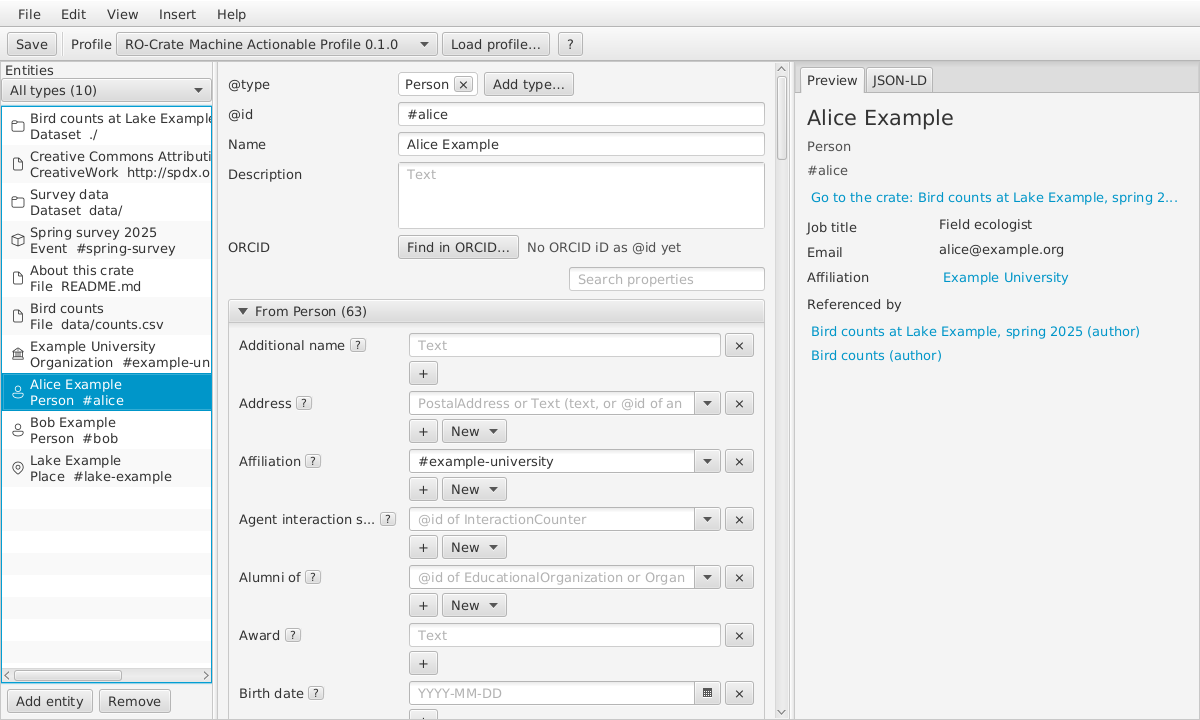
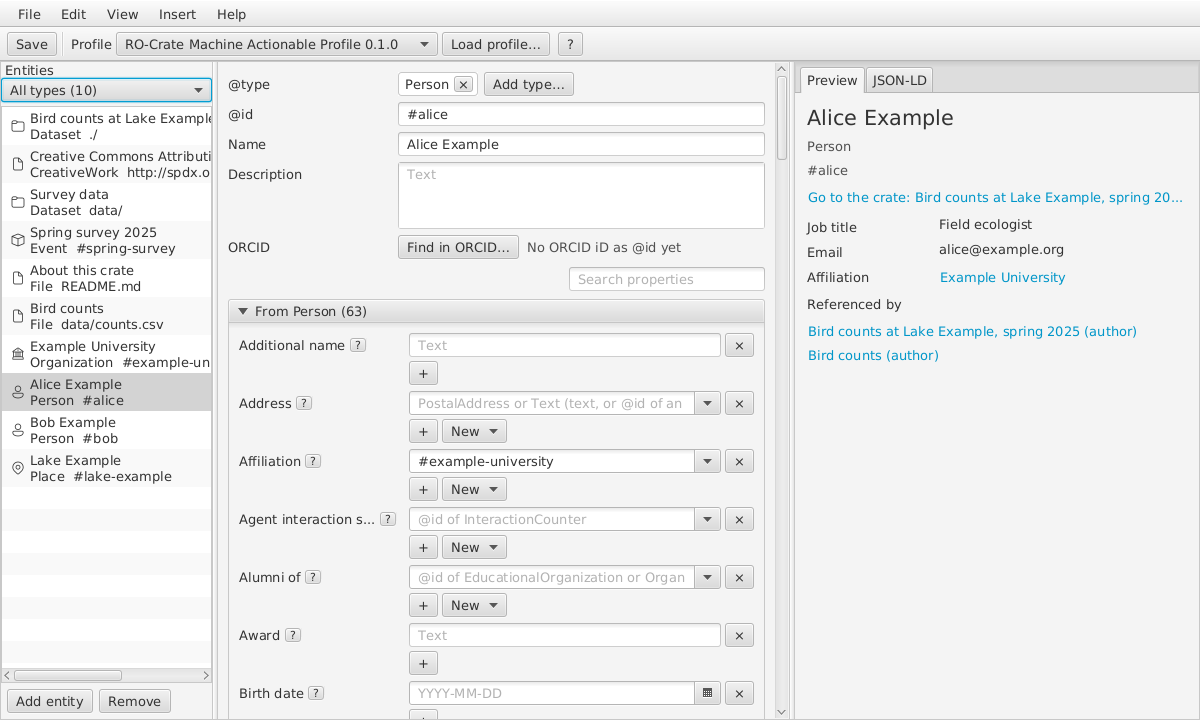
Lookup links name what they open: SPDX entry CC-BY-4.0, PRONOM definition fmt/40; the ORCID iD and ROR id are the links
Hyperlinks start where labels do, without Modena's 4px side padding.

diff --git a/ui/src/main/resources/no/s11/wpsld/ui/wpsld.css b/ui/src/main/resources/no/s11/wpsld/ui/wpsld.css
@@ -74,6 +74,11 @@
     -fx-fill: -fx-text-inner-color;
 }
 
+/* Links start where labels do, not 4px in as in Modena */
+.hyperlink {
+    -fx-padding: 0.166667em 0 0.166667em 0;
+}
+
 .help-dialog .help-content .hyperlink {
     -fx-padding: 0;
 }

diff --git a/ui/src/main/java/no/s11/wpsld/ui/OrganizationFinder.java b/ui/src/main/java/no/s11/wpsld/ui/OrganizationFinder.java
@@ -25,6 +25,7 @@ import java.util.stream.Stream;
 
 import javafx.concurrent.Task;
 import javafx.geometry.Insets;
+import javafx.geometry.Pos;
 import javafx.scene.Node;
 import javafx.scene.control.Button;
 import javafx.scene.control.ButtonType;
@@ -193,7 +194,11 @@ class OrganizationFinder extends Dialog<OrganizationFinder.Chosen> {
 		Label title = new Label(organization.name());
 		title.setWrapText(true);
 		title.setStyle("-fx-font-weight: bold;");
-		details.getChildren().addAll(title, new Label("ROR: " + organization.id()));
+		Hyperlink record = new Hyperlink(organization.id());
+		record.setOnAction(e -> browse.accept(organization.iri()));
+		HBox ror = new HBox(4, new Label("ROR:"), record);
+		ror.setAlignment(Pos.BASELINE_LEFT);
+		details.getChildren().addAll(title, ror);
 		if (!organization.where().isEmpty()) {
 			details.getChildren().add(new Label("In: " + organization.where()));
 		}
@@ -218,8 +223,5 @@ class OrganizationFinder extends Dialog<OrganizationFinder.Chosen> {
 			site.setOnAction(e -> browse.accept(website));
 			details.getChildren().add(site);
 		});
-		Hyperlink record = new Hyperlink("Its ROR record");
-		record.setOnAction(e -> browse.accept(organization.iri()));
-		details.getChildren().add(record);
 	}
 }

diff --git a/ui/src/main/java/no/s11/wpsld/ui/PersonFinder.java b/ui/src/main/java/no/s11/wpsld/ui/PersonFinder.java
@@ -23,6 +23,7 @@ import java.util.function.Consumer;
 
 import javafx.concurrent.Task;
 import javafx.geometry.Insets;
+import javafx.geometry.Pos;
 import javafx.scene.Node;
 import javafx.scene.control.Button;
 import javafx.scene.control.ButtonType;
@@ -174,7 +175,11 @@ class PersonFinder extends Dialog<Person> {
 		Label name = new Label(person.name());
 		name.setWrapText(true);
 		name.setStyle("-fx-font-weight: bold;");
-		details.getChildren().addAll(name, new Label("ORCID iD: " + person.id()));
+		Hyperlink record = new Hyperlink(person.id());
+		record.setOnAction(e -> browse.accept(person.iri()));
+		HBox orcid = new HBox(4, new Label("ORCID iD:"), record);
+		orcid.setAlignment(Pos.BASELINE_LEFT);
+		details.getChildren().addAll(name, orcid);
 		if (!person.otherNames().isEmpty()) {
 			Label others = new Label("Also known as: " + String.join("; ", person.otherNames()));
 			others.setWrapText(true);
@@ -185,8 +190,5 @@ class PersonFinder extends Dialog<Person> {
 			institutions.setWrapText(true);
 			details.getChildren().add(institutions);
 		}
-		Hyperlink record = new Hyperlink("Their ORCID record");
-		record.setOnAction(e -> browse.accept(person.iri()));
-		details.getChildren().add(record);
 	}
 }

diff --git a/ui/src/main/java/no/s11/wpsld/ui/LicenseFinder.java b/ui/src/main/java/no/s11/wpsld/ui/LicenseFinder.java
@@ -167,7 +167,7 @@ class LicenseFinder extends Dialog<License> {
 			note.getStyleClass().add("dim-text");
 			details.getChildren().add(note);
 		}
-		details.getChildren().add(link("Its page on the SPDX License List", license.page()));
+		details.getChildren().add(link("SPDX entry " + license.id(), license.page()));
 		license.seeAlso().forEach(address -> details.getChildren().add(link(address, address)));
 	}
 

diff --git a/ui/src/main/java/no/s11/wpsld/ui/FormatFinder.java b/ui/src/main/java/no/s11/wpsld/ui/FormatFinder.java
@@ -168,7 +168,7 @@ class FormatFinder extends Dialog<Format> {
 			label.setWrapText(true);
 			details.getChildren().add(label);
 		}
-		Hyperlink page = new Hyperlink("Its page in PRONOM");
+		Hyperlink page = new Hyperlink("PRONOM definition " + format.puid());
 		page.setOnAction(e -> browse.accept(format.page()));
 		details.getChildren().add(page);
 	}

diff --git a/ui/src/main/resources/no/s11/wpsld/ui/help/properties.md b/ui/src/main/resources/no/s11/wpsld/ui/help/properties.md
@@ -37,7 +37,7 @@ RO-Crate recommends identifying people by their
 person) from ORCID, choose **New** beside **Author**, then **Person from
 ORCID...**. Type their name, or their ORCID iD, and choose **Search**: the
 people found are listed with their ORCID iD and institutions, and the one
-selected with their other names and a link to their ORCID record. Several
+selected with their other names, its ORCID iD a link to their record. Several
 people may have the same name, so check before choosing. Choose one and
 **OK**: wpsld adds them as a Person with their ORCID iD as `@id`, their
 name, and their given and family names. If the crate already has them,
@@ -148,7 +148,7 @@ SPDX...**. Type part of the licence's identifier or name, for example
 `cc-by-4.0`, `apache` or `creative commons attribution 4.0`: the list
 narrows while you type, with whether a licence is OSI approved or FSF free.
 The licence selected is described beside the list, with links to its
-page on the SPDX License List and to the licence itself. Choose one and
+SPDX entry and to the licence itself. Choose one and
 **OK**.
 
 ![Choosing a licence from the SPDX License List: the Creative Commons Attribution 4.0 licences, with CC-BY-4.0 selected](images/licence-finder.png)
